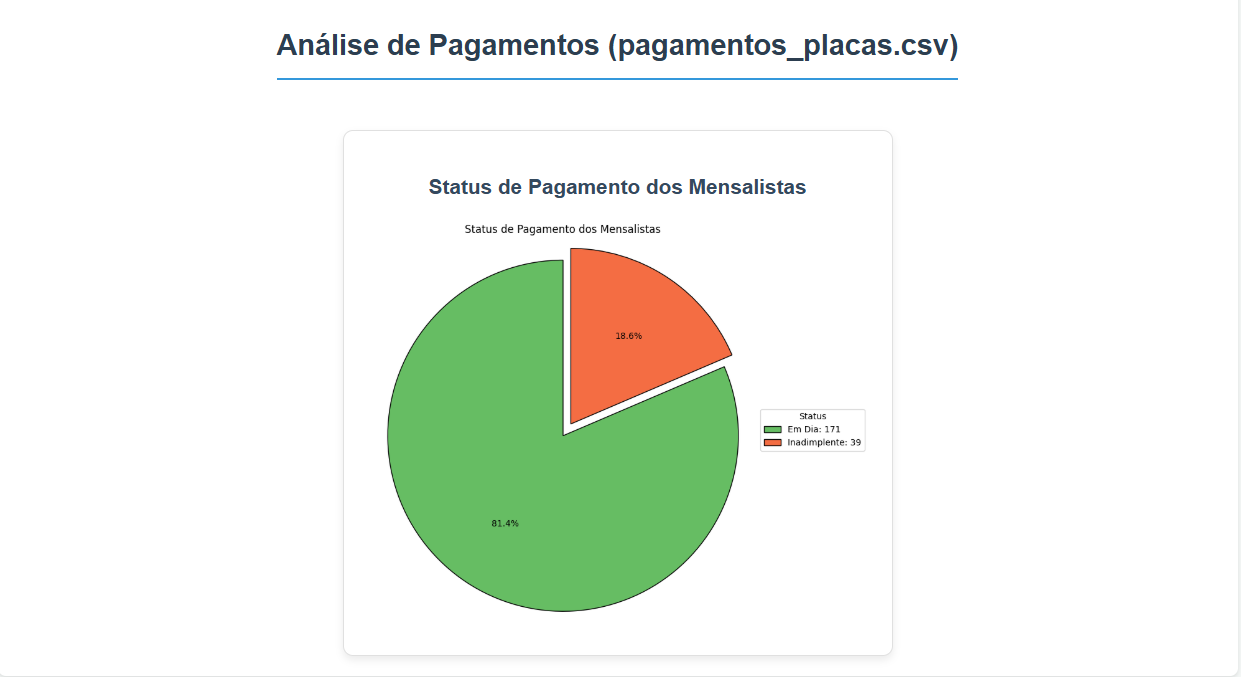
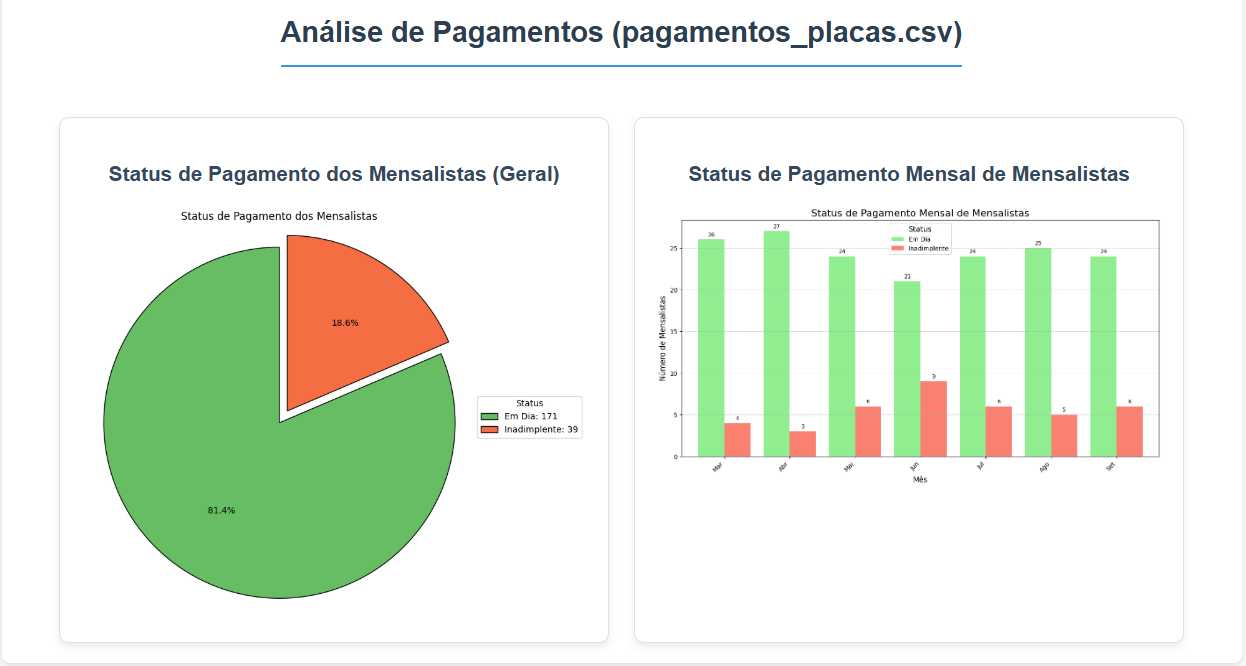
Atualizacao Readme

diff --git a/README.md b/README.md
@@ -112,14 +112,28 @@ Abaixo, algumas imagens dos gráficos gerados pelo aplicativo:
 *Início de dashboard e KPIs*
 ![resultado](imagens/resultados_1.png)
 
+Com o KPIs pode-se obter um panorama geral dos dados fornecidos dos dois arquivos CSVs. O arquivo csv_estacionamento que consiste na entrada e saída dos carros com sua data, marca do carro e modelo. No outro arquivo pagamento_placas, mostra os mensalistas que contém uma coluna referente a placa, data que deve ser pago e a data que foi pago.
+Os gráfico de 1 a 5 são referentes ao arquivo CSV csv_estacionamento e os gráficos 6 e 7 são referentes ao arquivo CSV pagamento_placas.
+
 *Gráficos 1, 2: Média de Duração por Dia da Semana e Média de Duração Geral*
 ![resultado](imagens/resultados_2.png)
+
+No Primeiro gráfico que é a média da duração em relação a semana é possível obter um panorama, em qual dia da semana a média é menor e maior.
+No segundo gráfico mostra a média geral contando todos os dias da semana. E com esse gráfico é possível verificar que sábado é o único dia que fica abaixo da média geral.
 
 *Gráficos 3, 4: Histograma da Duração de Permanência e Box Plot da Duração por Mês*
 ![resultado](imagens/resultados_3.png)
 
+No terceiro gráfico é possível ver a quantidade de veículos estacionados em relação ao tempo de permanência deles.
+No quarto gráfico é a permanência em relação a duração do mês.
+
 *Gráfico 5: Mapa de Calor da Duração Média*
 ![resultado](imagens/resultados_4.png)
 
-*Gráficos 6: Gráfico de Setores de Status de Pagamento dos Mensalistas*
+No quinto gráfico é um mapa de calor que mostra a duração de permanência em relação ao horário de entrada e com isso pode-se observar que o período da manhã é o período que os veículos permanecem por mais tempo (mais de 10 horas).
+
+*Gráficos 6, 7: Gráfico de Setores de Status de Pagamento dos Mensalistas e o Gráfico de Barras de Status de Pagamento dos Mensalistas*
 ![resultado](imagens/resultados_5.png)
+
+No sexto gráfico mostra a quantidade de mensalistas que estão com o pagamento atrasado e o pagamento em dia.
+No sétimo gráfico é possível ver se os mensalistas estão em dia ou atrasado, mas em relação ao mês.
